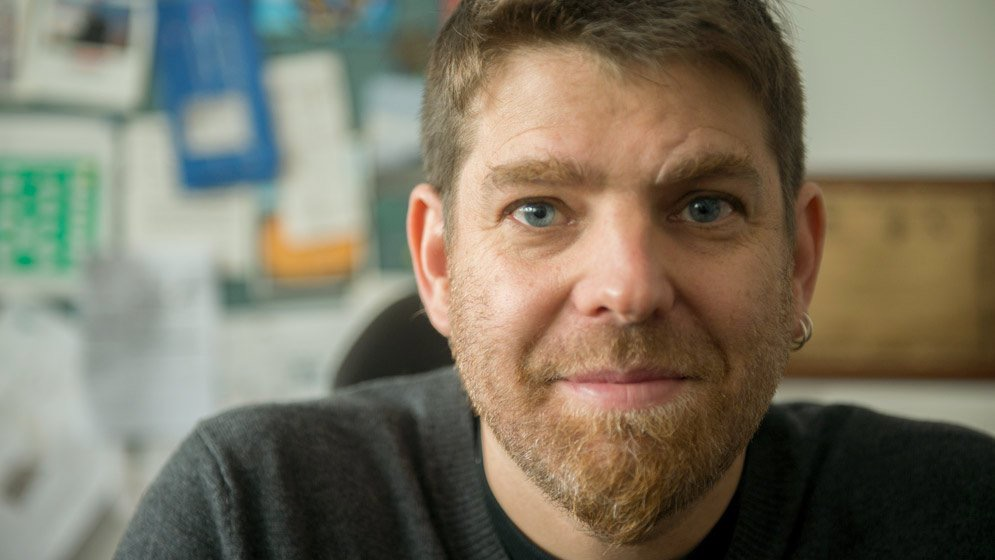
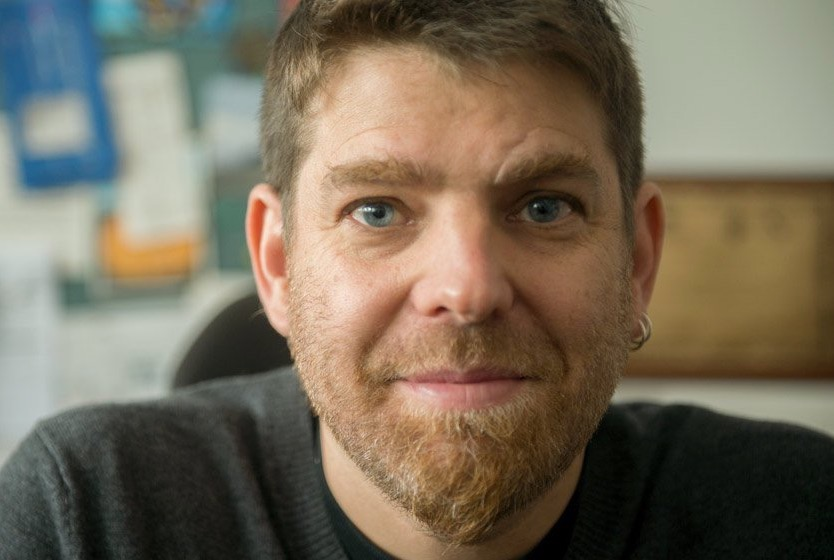
updated keynote speakers

diff --git a/_sass/minima/_layout.scss b/_sass/minima/_layout.scss
@@ -132,8 +132,8 @@
 }
 
 .imageSpeaker {
-  width: 250px;
-  height: 250px;
+  width: auto;
+  height: 200px;
   padding-right: 1%;
 }
 
